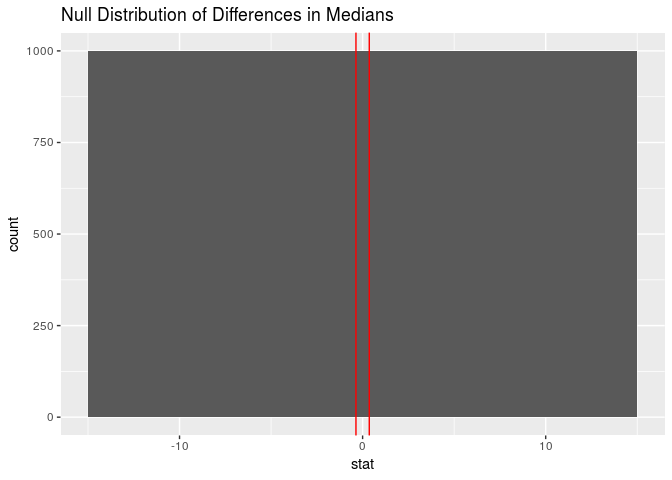
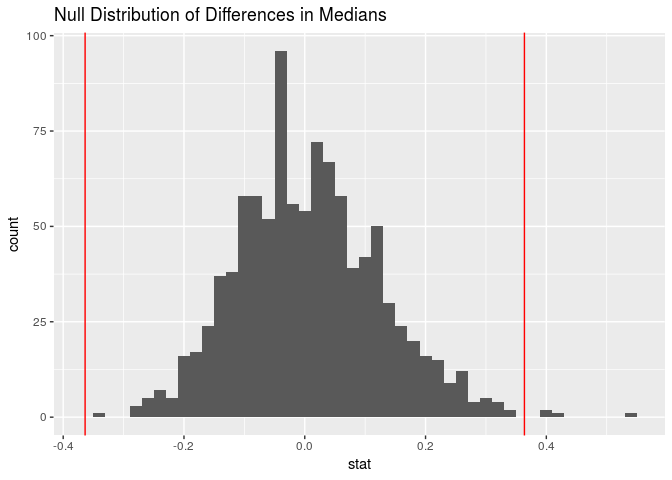
Updated hypothesis testing for action/non-action

diff --git a/project/project.md b/project/project.md
@@ -323,14 +323,14 @@ movies.
     ## # A tibble: 1 x 1
     ##   pvalue
     ##    <dbl>
-    ## 1  0.052
+    ## 1  0.039
 
     ## # A tibble: 1 x 2
     ##    lower upper
     ##    <dbl> <dbl>
     ## 1 -0.185 0.227
 
-From our hypothesis test, we found a p-value of .046 – below our alpha
+From our hypothesis test, we found a p-value of .039 – below our alpha
 level of .05. Thus, we do have convincing evidence to reject a null
 hypothesis of no difference in pratios, thus concluding that there is
 evidence of a difference in median pratios between action movies and non
@@ -338,7 +338,7 @@ action movies. We’ve also computed a 95% confidence interval for the
 true median difference between action and non-action movies in that
 order, arriving at values of -0.188 and .215. Consequently, we can state
 with 95% confidence that the true typical difference in median pratios
-for action and non-action movies lies between -.188 and .215.
+for action and non-action movies lies between -.185 and .227.
 
 In a similar process, we examined the profitability and frequency of
 action movies over time.
@@ -474,7 +474,7 @@ with major and non-major production companies.
     ##    <dbl> <dbl>
     ## 1 -0.183 0.198
 
-Generating a null distribution of 2000 values and applying our sample
+Generating a null distribution of 1000 values and applying our sample
 statistic bounds, we find a p-value of zero, suggesting that there is
 convincing evidence that there is a difference in pratio between major
 and non-major production companies. Furthermore, based on the above
@@ -697,7 +697,7 @@ small, but the median budget for the dataset is 27 million dollars,
 which, multiplied by 6.47e-8, leads to an expected decrease of about
 1.75 in pratio.
 
-If a movie is a holiday release (all else held constant), its expectec
+If a movie is a holiday release (all else held constant), its expected
 pratio will decrease by about 0.92.
 
 Below is a comparison of the preliminary model’s AIC compared to the
@@ -732,6 +732,13 @@ equation based on the values below.
     ## 2 budget           2.98
 
 Linear Model: Revenue = 143491 + 2.98(Budget)
+
+We interpret the budget coefficient to mean that for every increase of
+$1 in budget, there will be an increase of about $2.98 in expected
+revenue. The intercept of this model indicates that for a film with a
+budget of zero dollars, we expect a revenue of about 143,491. However,
+we filtered out all of the points in our data set with budgets of zero
+and so this value is not likely an accurate interpretation.
 
 The above equation nets an R-Squared value of 0.497329, implying that
 approximately 49.73% of the linear variation in revenue can be
